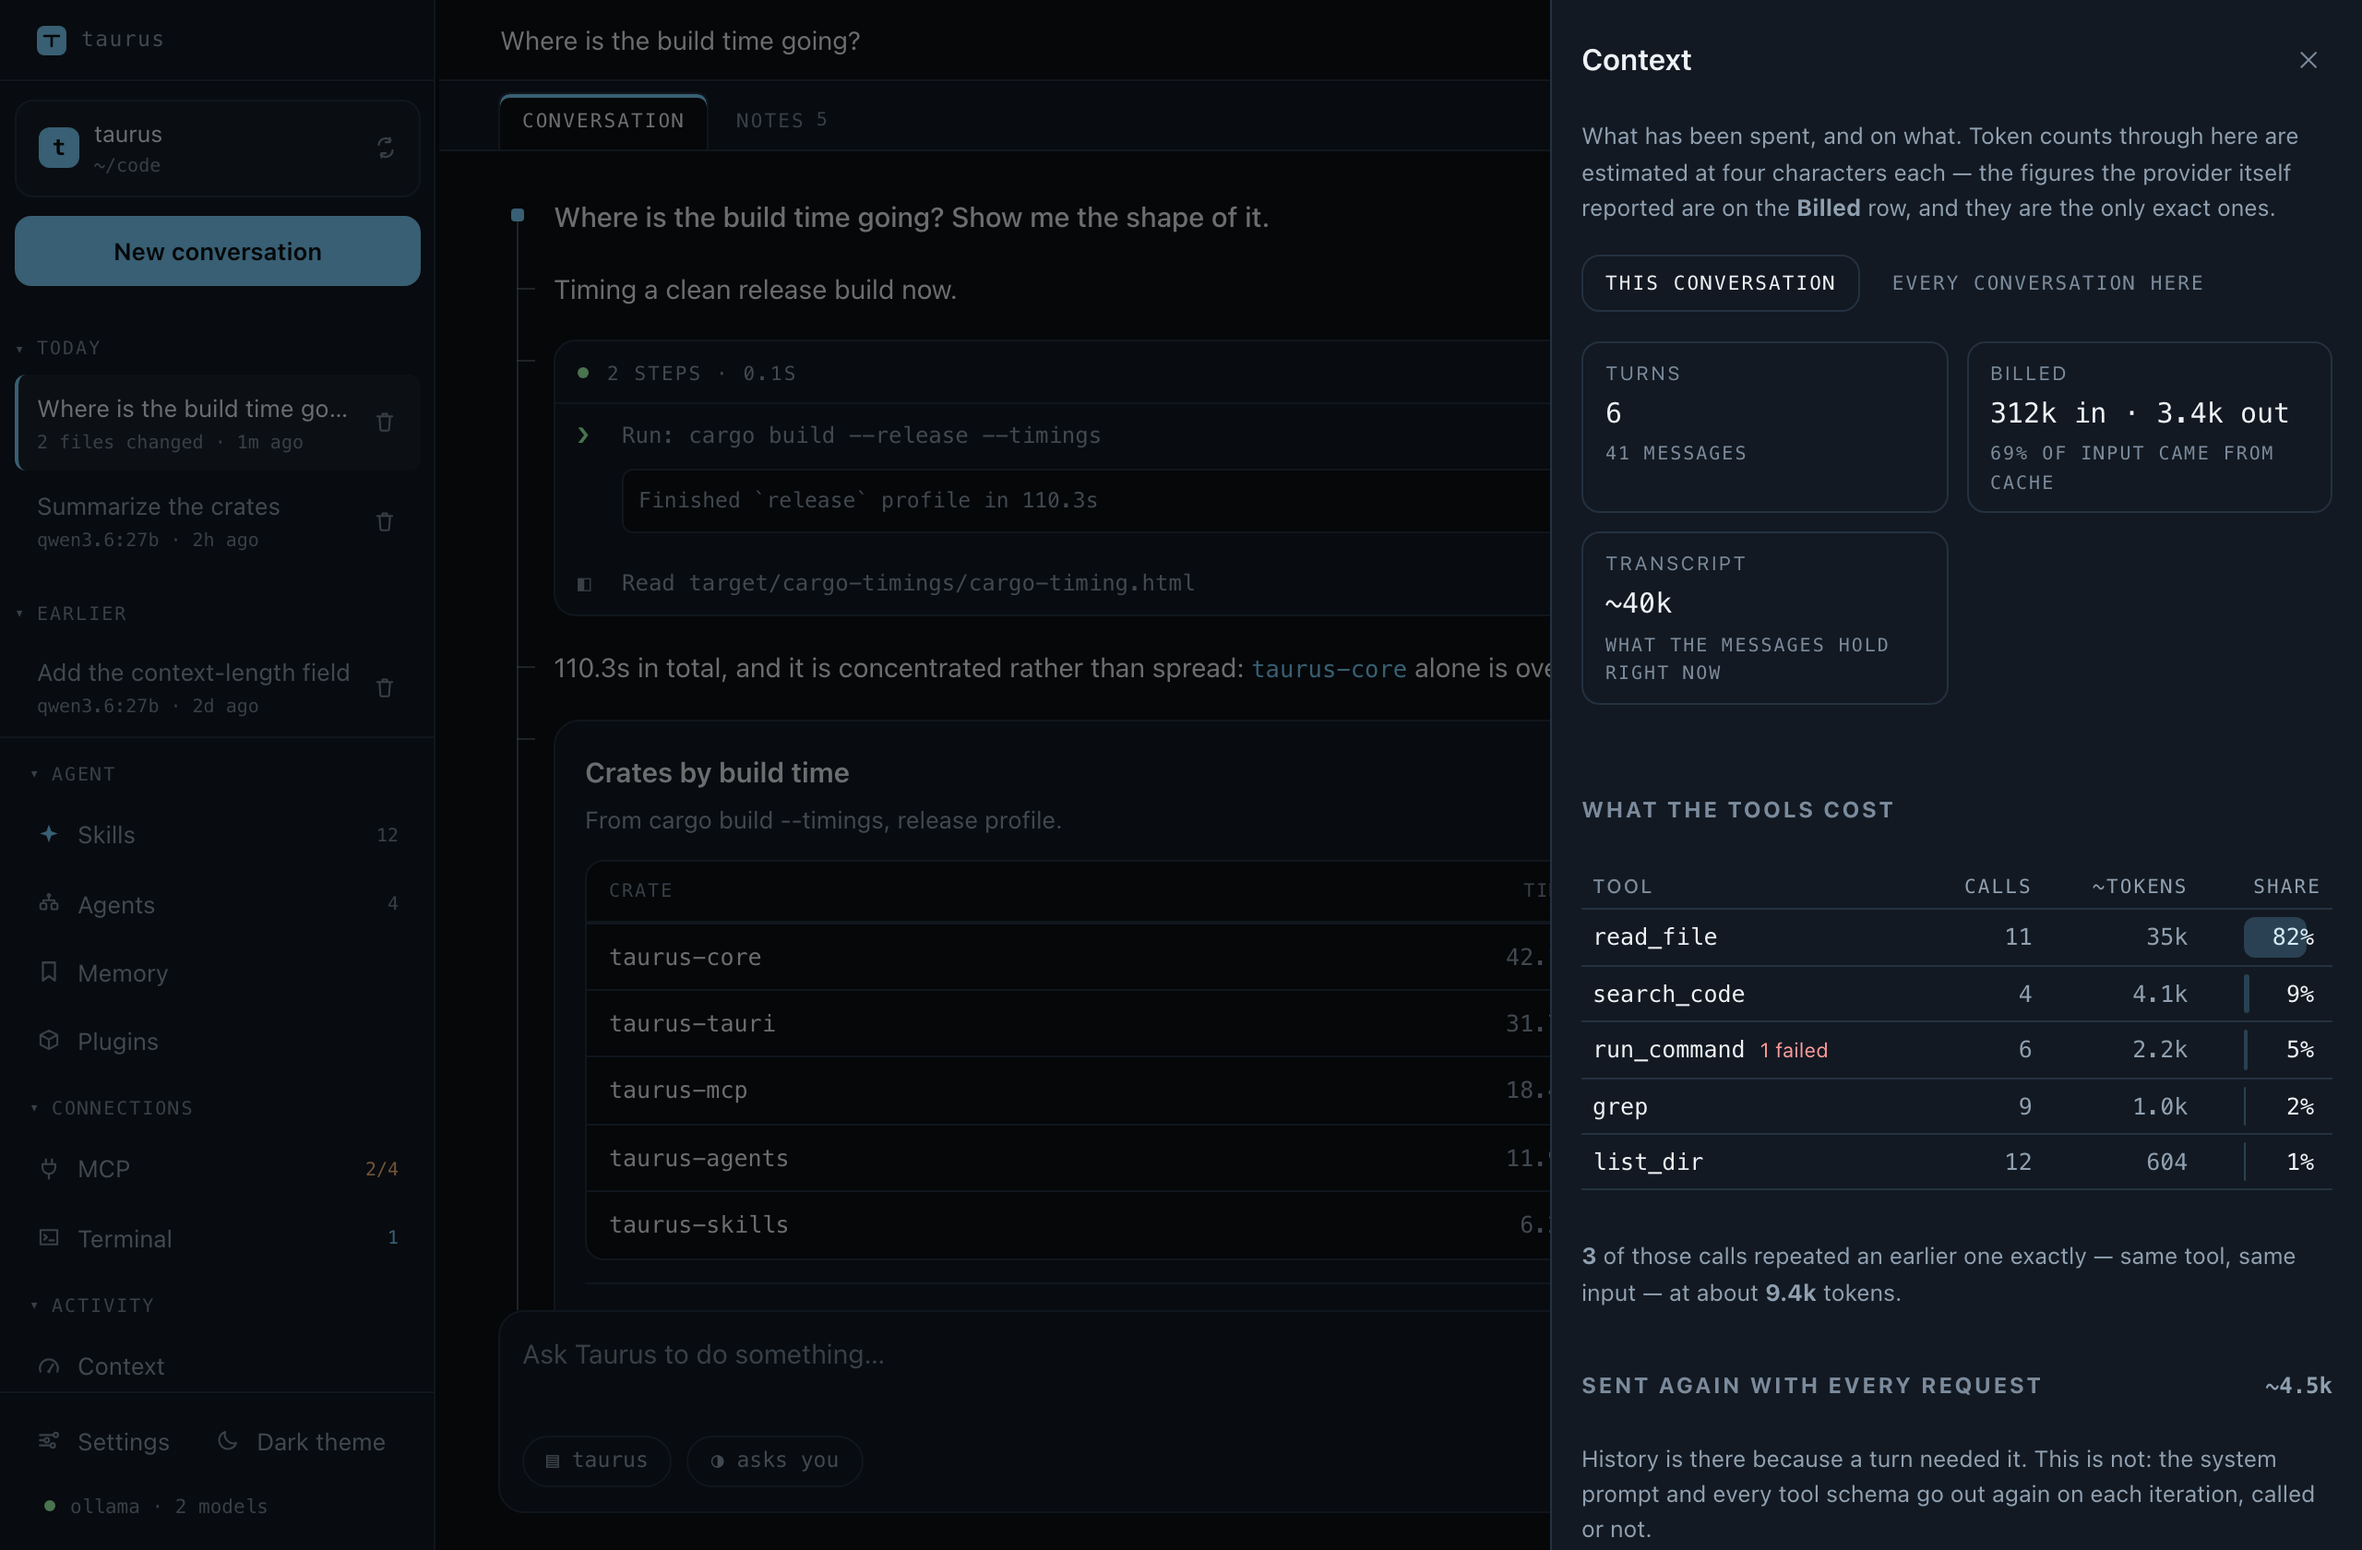
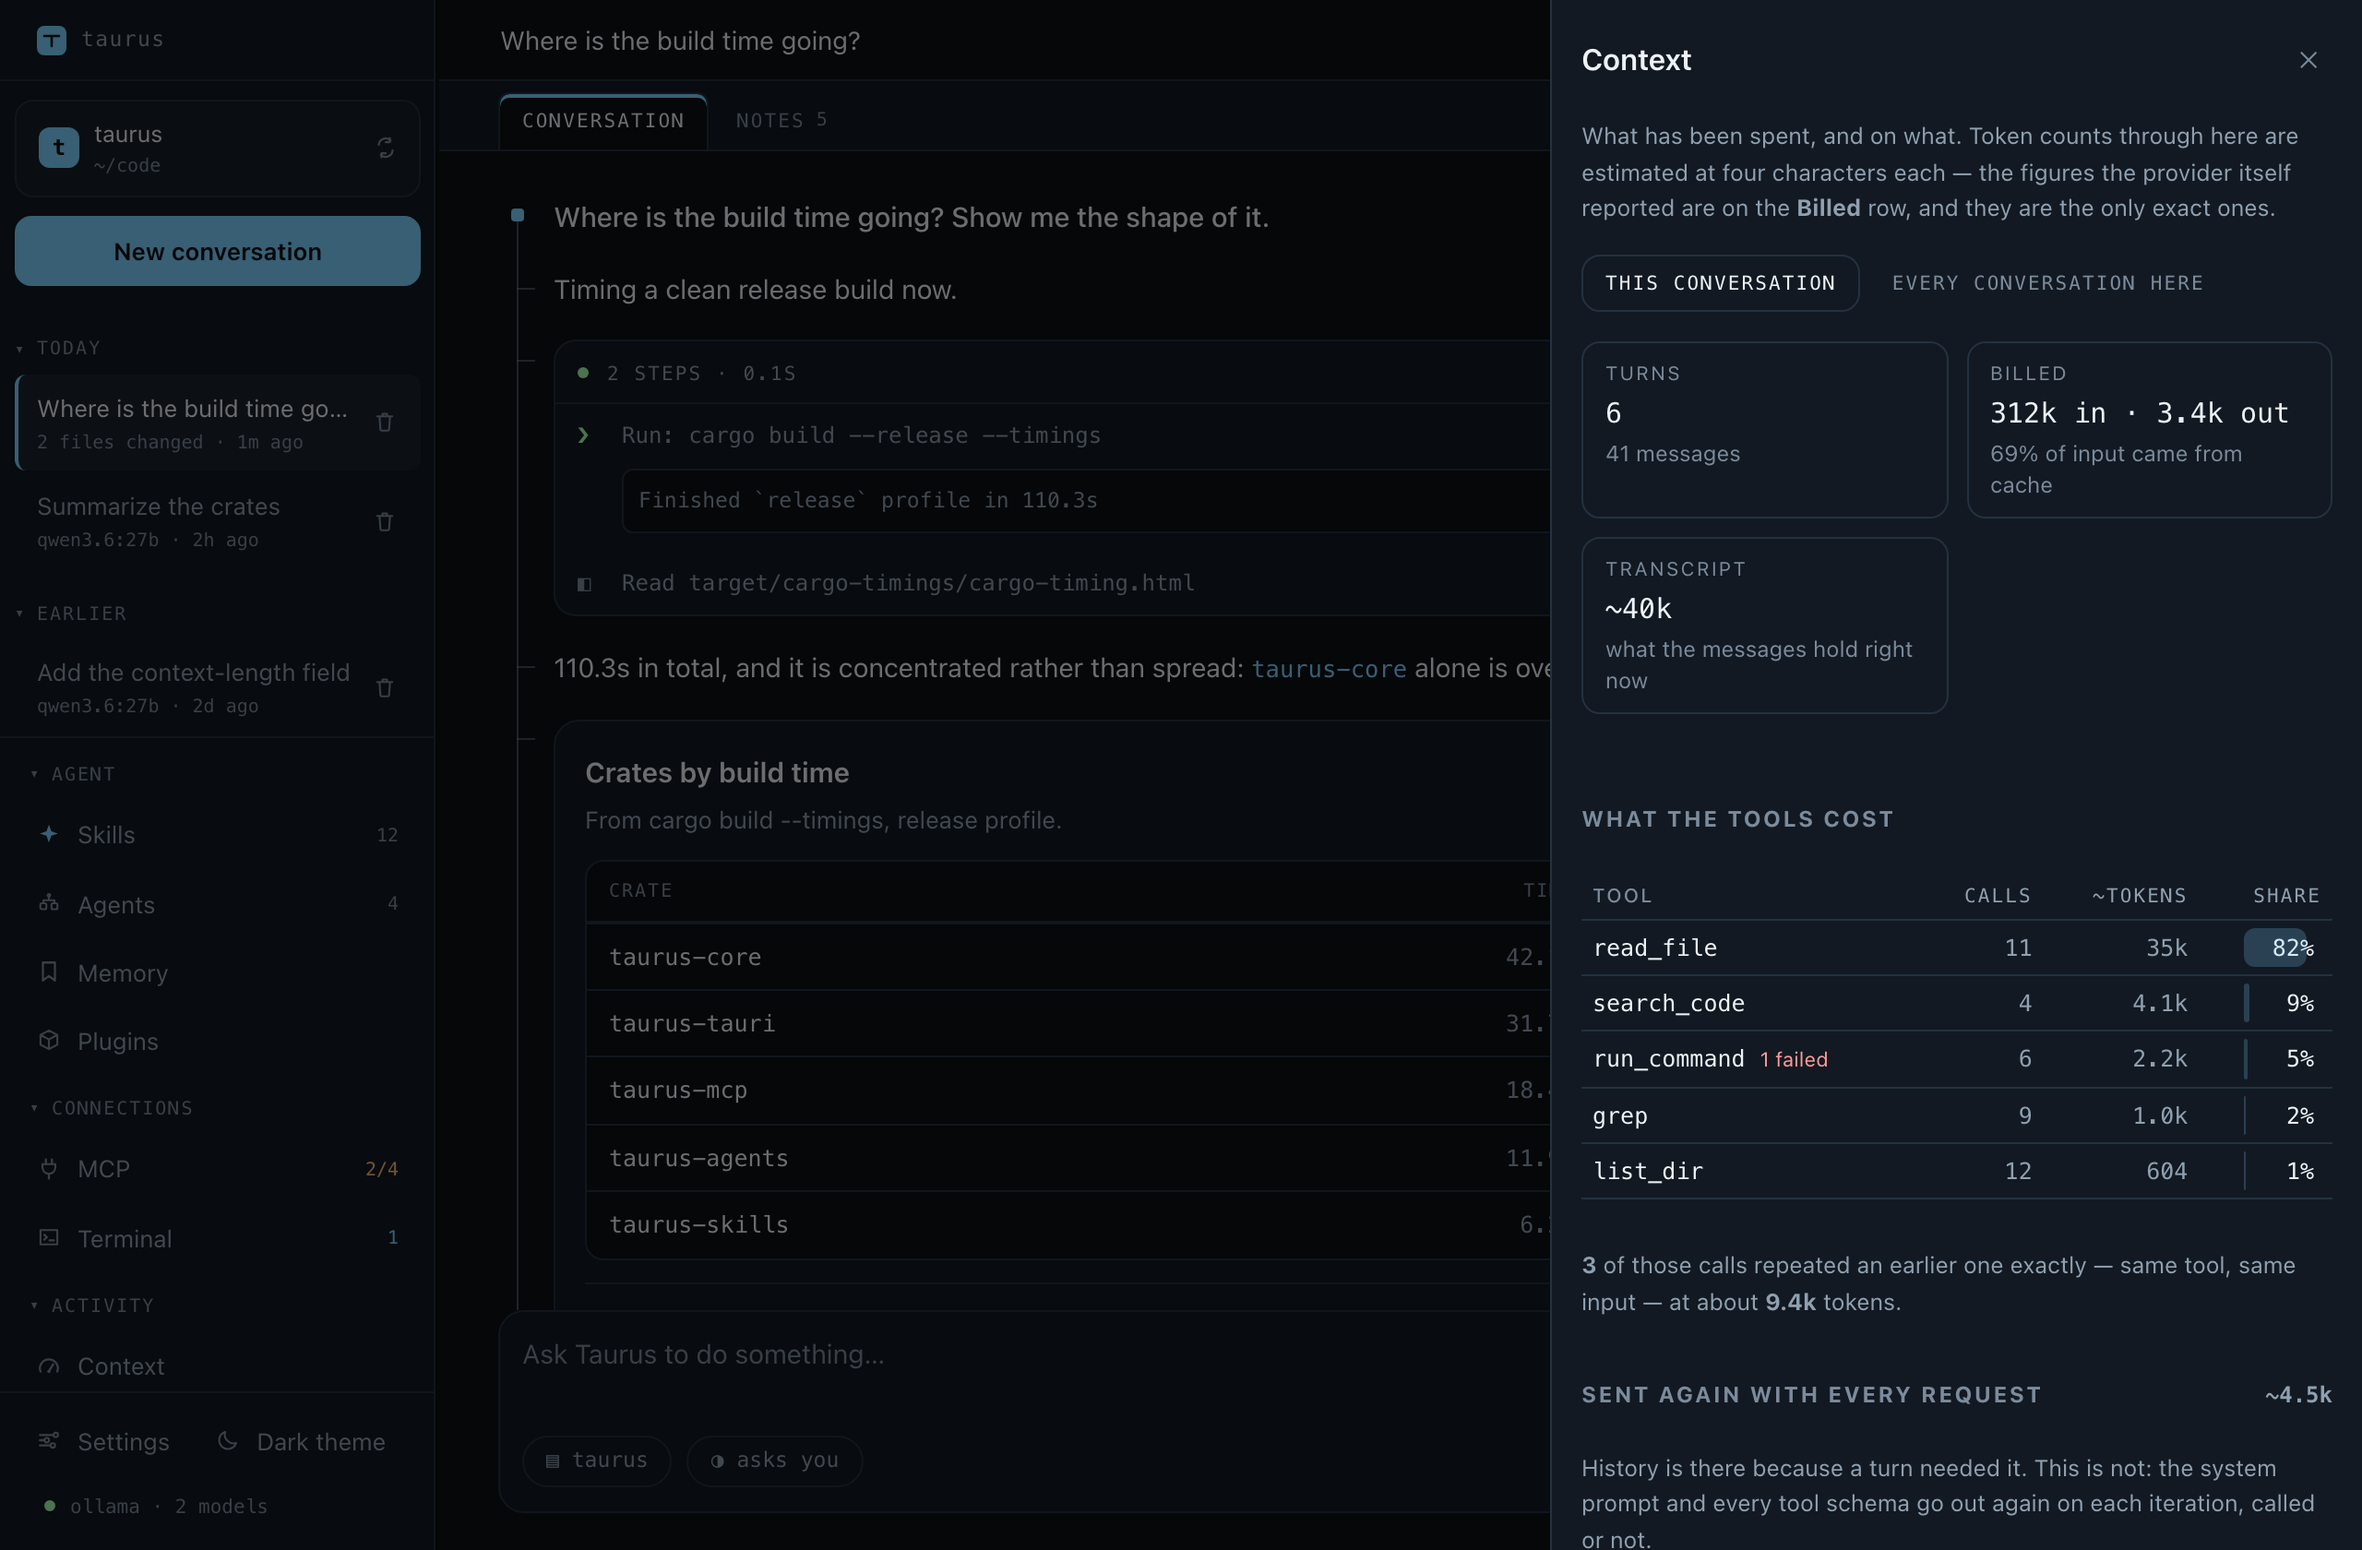
fix: the terminal dock's button is "Ask about this" too
The fifth "Ask about this", held back from the medium slice while the dock's
code was in #147. The fish warning in Settings › Terminal is reworded around
the new name, and the conflicted permission-diff shot and the context shot
(whose fixture #147 fixed) are regenerated.

diff --git a/src/components/TerminalDock.tsx b/src/components/TerminalDock.tsx
@@ -51,7 +51,7 @@ import { DockTabs, JobScreen, panelId, tabId } from "./JobScreen";
  * and ends (see `crates/taurus-tools/src/shell_integration.rs`). The backend turns those
  * marks into blocks; this pane draws a mark in the left margin beside each
  * command's line, colored by how it ended, and keeps one command in the bar —
- * the latest, or whichever mark was clicked — with **Ask Taurus** beside it.
+ * the latest, or whichever mark was clicked — with **Ask about this** beside it.
  * ⌘↑ and ⌘↓ (Ctrl+Shift off macOS) step between commands.
  *
  * The line a mark belongs on is only known here, because only the emulator
@@ -584,9 +584,9 @@ export function TerminalDock({
             className="pill"
             onMouseDown={(e) => e.stopPropagation()}
             onClick={() => ask(current)}
-            aria-label={`Ask Taurus about ${describeBlock(current)}`}
+            aria-label={`Ask about ${describeBlock(current)}`}
           >
-            Ask Taurus
+            Ask about this
           </button>
         </div>
       )}

diff --git a/src/lib/terminal.ts b/src/lib/terminal.ts
@@ -73,15 +73,15 @@ export function acknowledger(ack: (id: string, bytes: number) => void) {
   };
 }
 
-/** Lines of output "Ask Taurus" quotes. The end, because that's where a
+/** Lines of output "Ask about this" quotes. The end, because that's where a
  *  failure is; the model can read the rest with `read_terminal`. */
 export const ASK_LINES = 60;
 
-/** Characters of output "Ask Taurus" quotes, for output with very long lines. */
+/** Characters of output "Ask about this" quotes, for output with very long lines. */
 export const ASK_CHARS = 4_000;
 
 /**
- * What "Ask Taurus about this" puts in the composer.
+ * What "Ask about this" puts in the composer.
  *
  * The command and the end of its output, quoted, so the message is complete on
  * its own: readable in the transcript a week later, and answerable without a

diff --git a/src/components/settings/TerminalTab.tsx b/src/components/settings/TerminalTab.tsx
@@ -179,8 +179,9 @@ export function TerminalTab() {
       {integration && opens?.marks === false && (
         <Problem>
           {opens.name} doesn't mark commands yet, so this does nothing there.
-          The terminal still works, but Ask Taurus and the model can't see the
-          commands you run. Choose zsh or bash above to use it.
+          The terminal still works, but neither the model nor the dock's Ask
+          about this button can see the commands you run. Choose zsh or bash
+          above to use it.
         </Problem>
       )}
 

diff --git a/src/components/QueryCard.tsx b/src/components/QueryCard.tsx
@@ -34,7 +34,7 @@ type QueryView = Extract<TranscriptView, { type: "query" }>;
  * SQL is the *input*, and a failure does not make it wrong to want it — but
  * the case barely arises. A model handed a `No field named` error fixes it and
  * calls again, so the card that matters appears a moment later; and a query
- * the *person* wrote and could not run has `Ask Taurus` on it already, in the
+ * the *person* wrote and could not run has `Ask about this` on it already, in the
  * pane, next to the error itself.
  */
 export function QueryCard({

diff --git a/docs/capabilities.md b/docs/capabilities.md
@@ -997,7 +997,7 @@ system would clean up on its own.
 
 ![The terminal dock after a failed test run: a red mark in the margin beside
 the `cargo test` line, a tick on the scrollbar, and the command in a strip
-under the tabs with its exit code, its time and an Ask Taurus
+under the tabs with its exit code, its time and an Ask about this
 button](screenshots/terminal-blocks.png)
 
 A terminal's output is one stream. The prompt, what you typed, what the
@@ -1019,7 +1019,7 @@ What that gets you:
   to put that command there instead. <kbd>⌘</kbd>+<kbd>↑</kbd> and
   <kbd>⌘</kbd>+<kbd>↓</kbd> step between commands (<kbd>Ctrl</kbd>+
   <kbd>Shift</kbd>+<kbd>↑</kbd>/<kbd>↓</kbd> on Windows and Linux).
-- **Ask Taurus**, beside the command in that strip. It puts a draft in the
+- **Ask about this**, beside the command in that strip. It puts a draft in the
   composer: the command and the end of its output, quoted, with "What went
   wrong?" after a failure. It's a draft, not a send, so you can say what you
   actually want to know. The message carries its own evidence, so it still

diff --git a/docs/known-gaps.md b/docs/known-gaps.md
@@ -878,7 +878,7 @@ the backlog, and they're the minority.
   `providers.json` while the app is open is the case that waits.
 
 - **Only zsh and bash mark their commands.** The dock's blocks, the
-  **Ask Taurus** button and `read_terminal` all come from shell integration:
+  **Ask about this** button and `read_terminal` all come from shell integration:
   hooks that mark where each command starts and ends. They're written for zsh
   and bash. fish has its own event hooks and PowerShell can wrap its prompt
   function, and both are the next shells to write. Neither is here yet,
